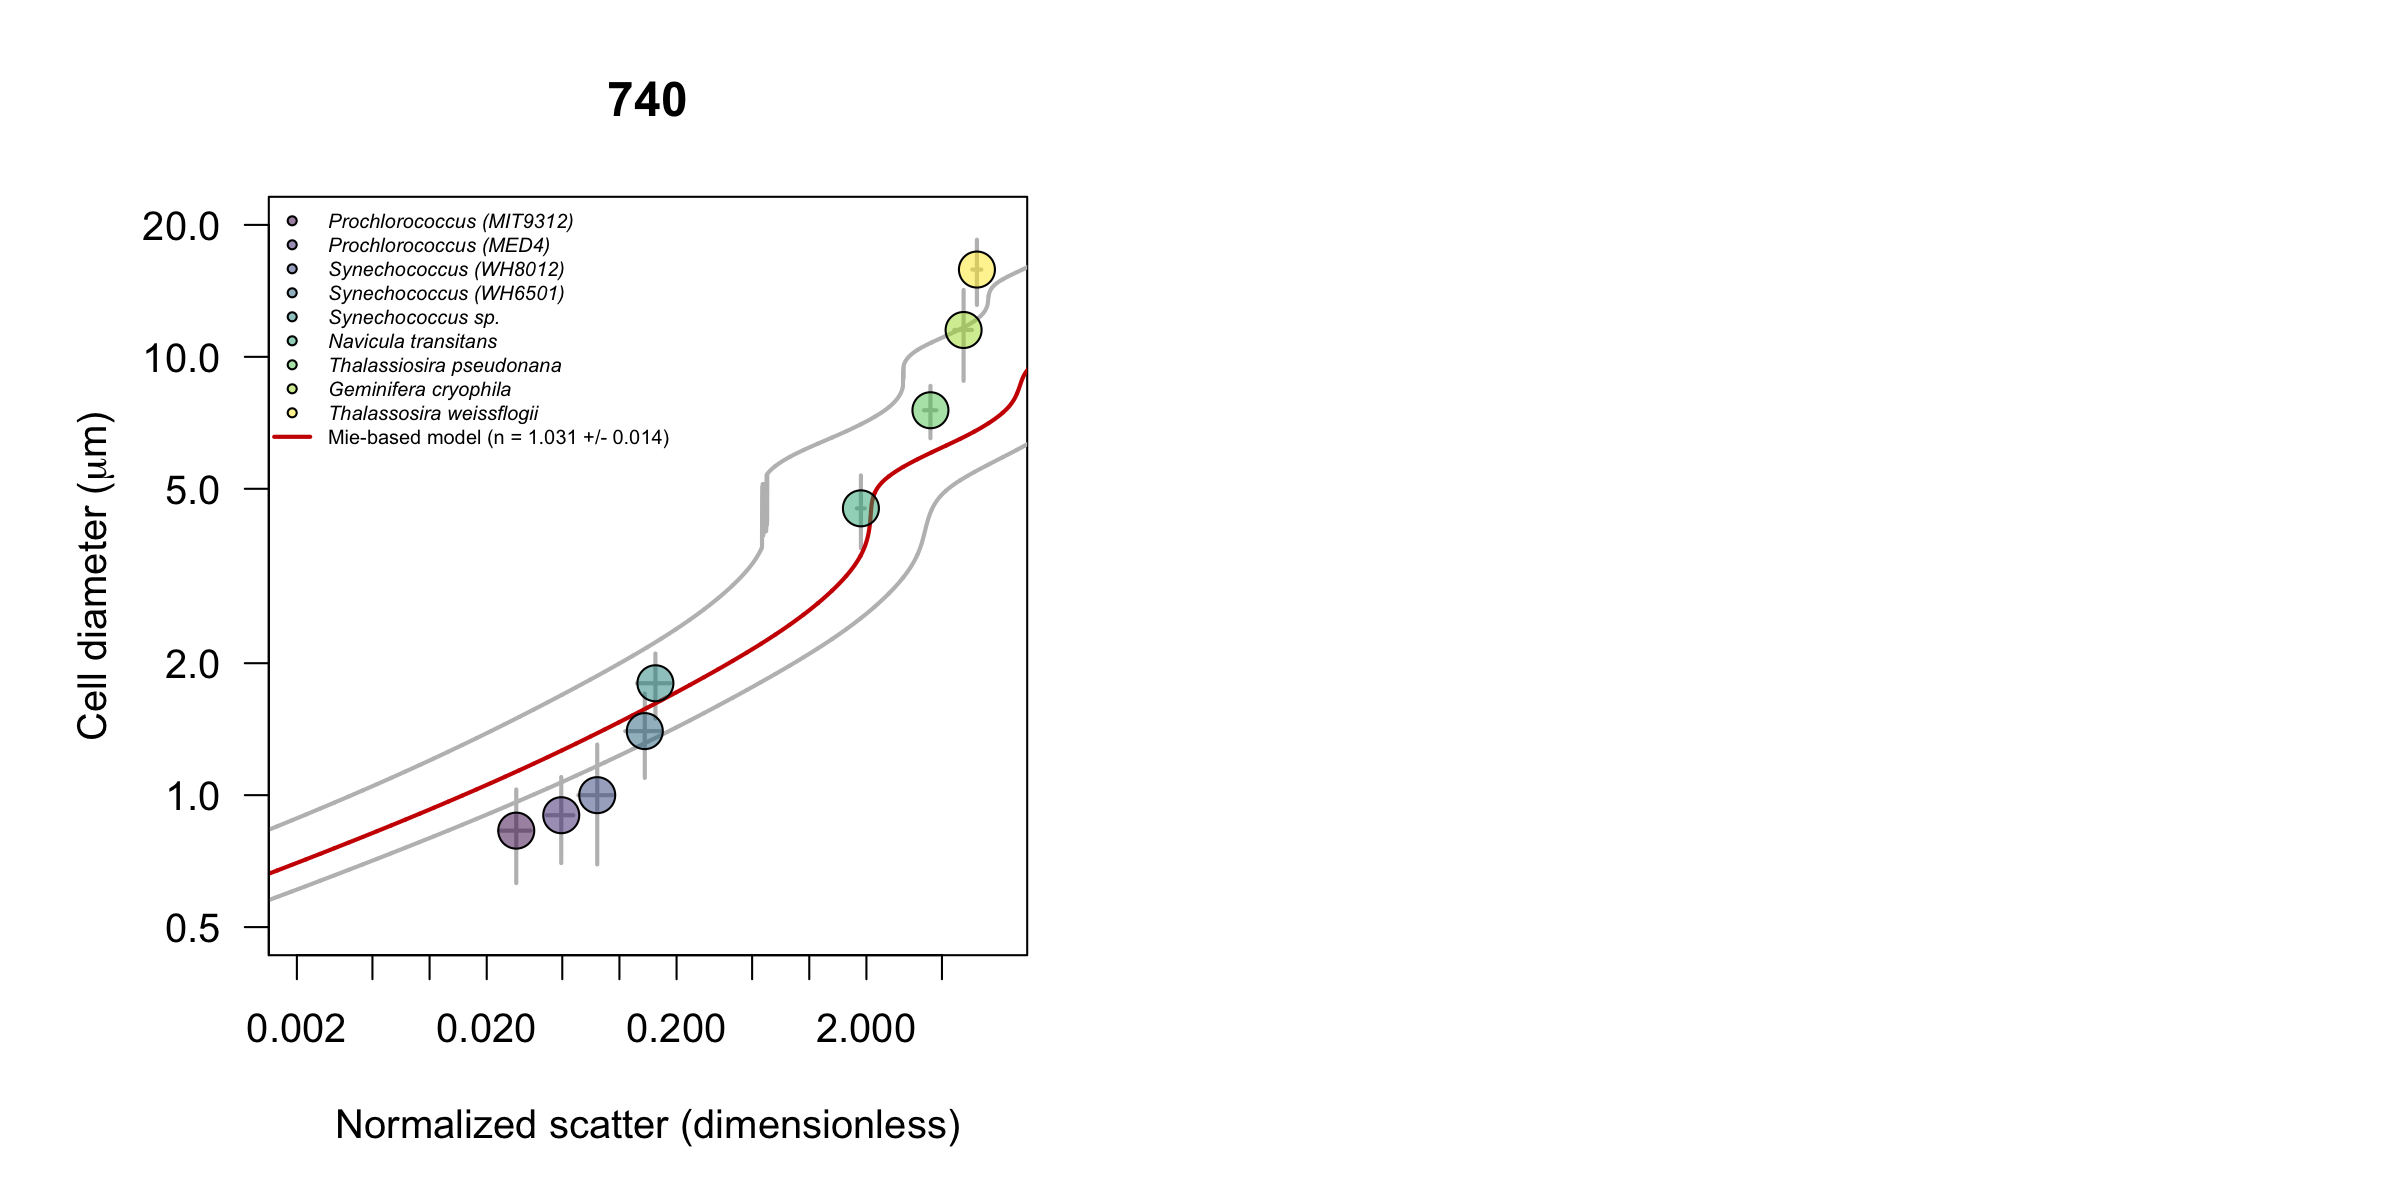
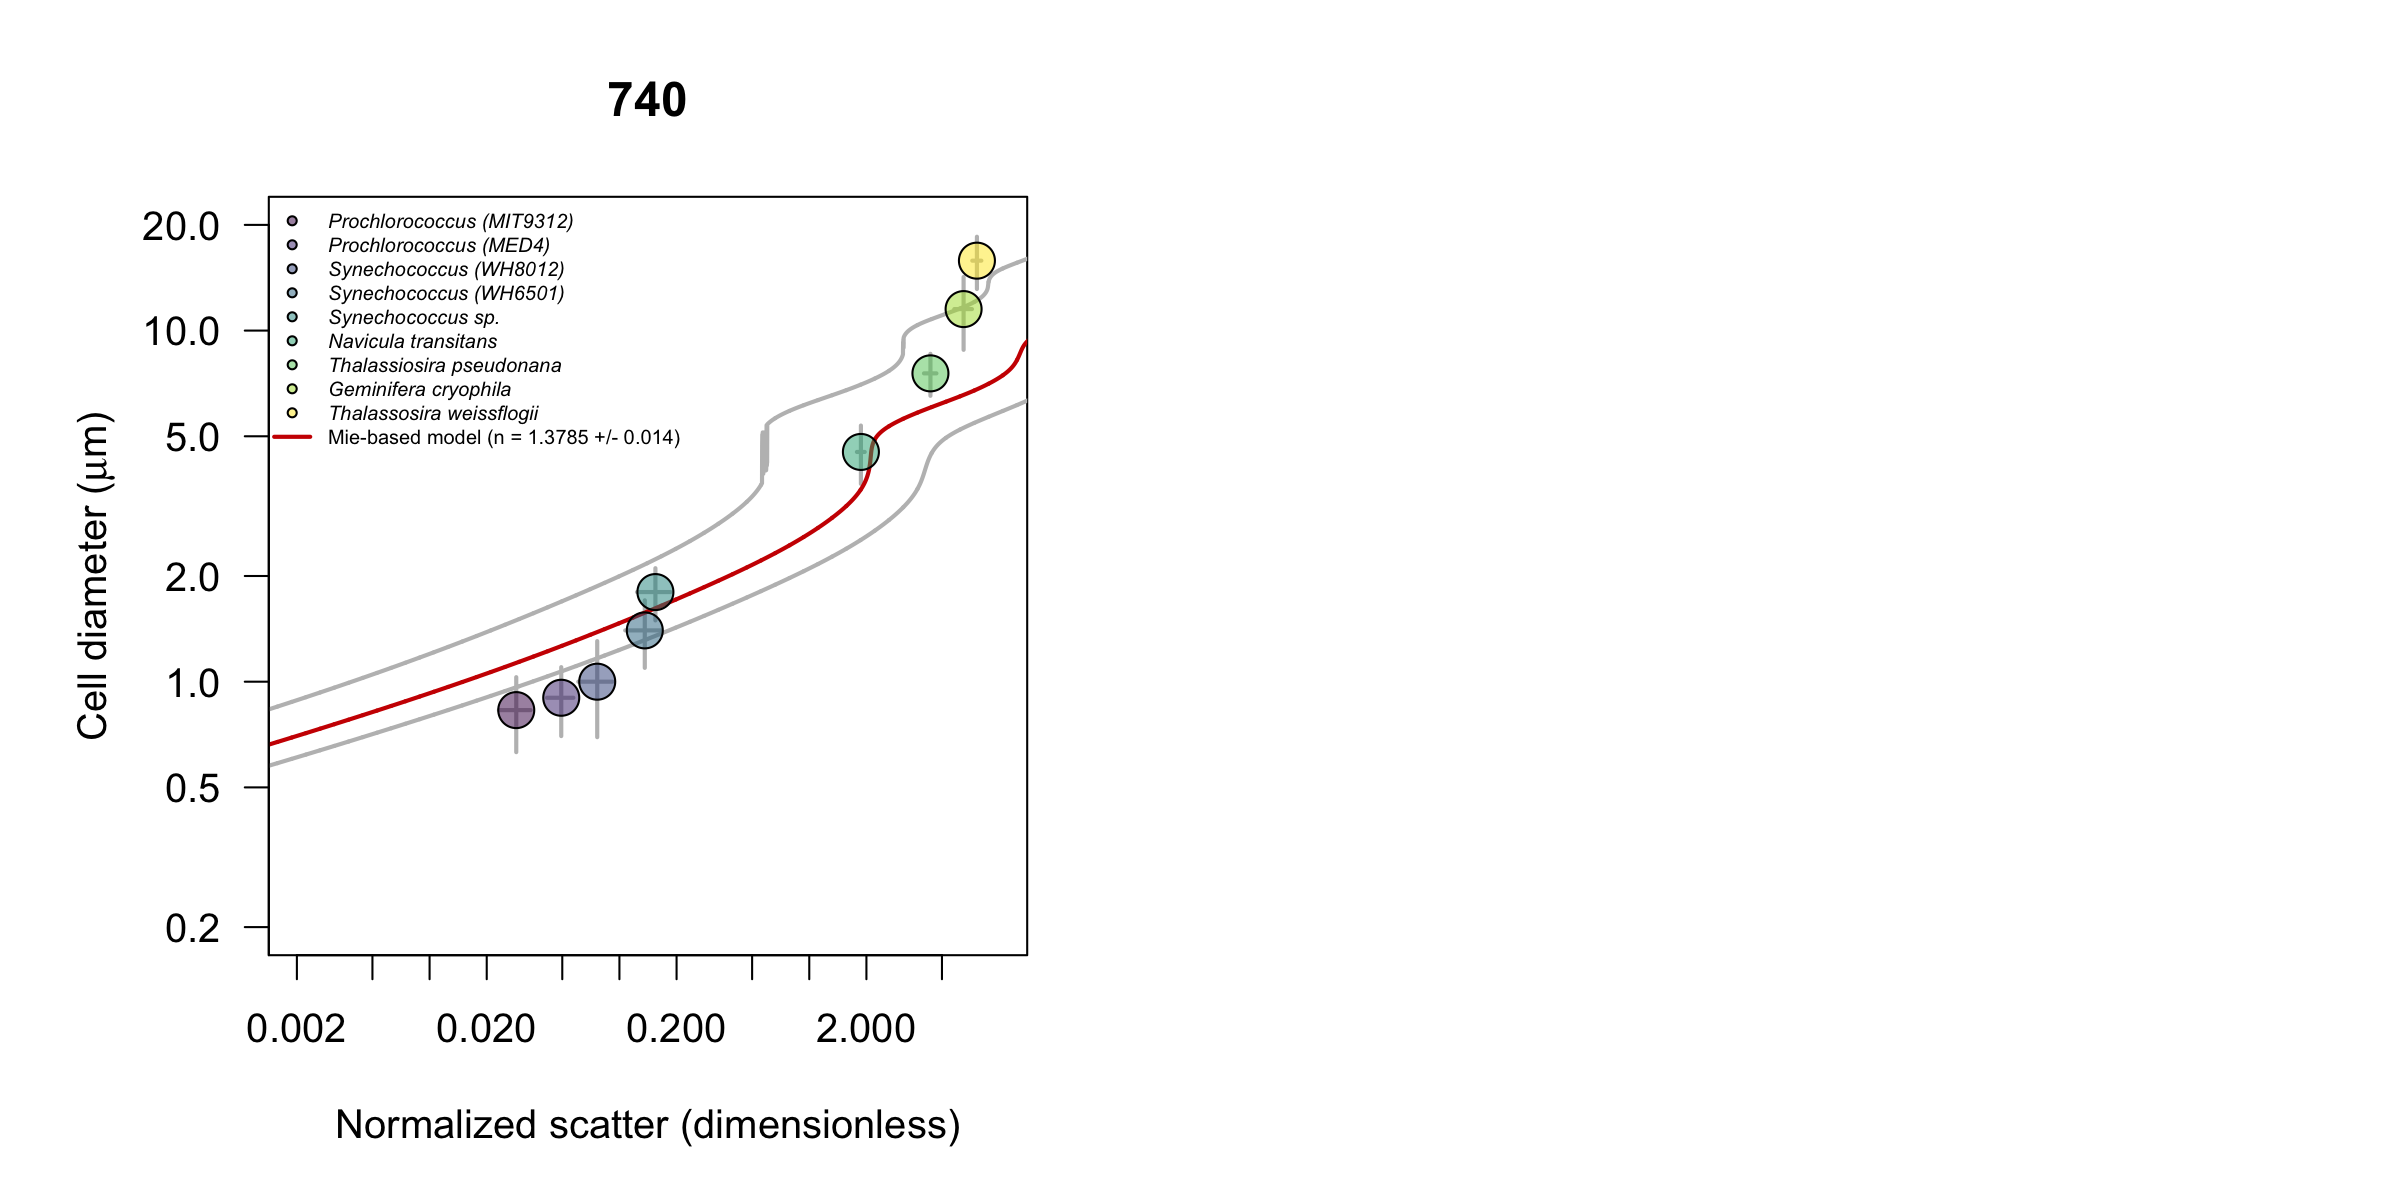
plot clean-up

diff --git a/README.md b/README.md
@@ -1,6 +1,6 @@
 # Calibration light scattering - cell diameter
 The goal of this project is to use an optimized Mie theory to infer particle cell size from forward scatter measurements. In order to use Mie theory, an optimization method was developed to minimize the difference between forward scattering measured by SeaFlow and estimated using Mie theory. The optimization step was necessary because the optical geometry of the flow cytometer is not precisely known. An optimization procedure was conducted to scale the dimensionless values of forward scatter, in which the differences between the Mie-modeled and measurement-derived forward scatter were minimized. We used SeaFlow measurements of calibration particles of known refractive index and size. These particles includes 7 sizes of polystyrene beads (0.3, 0.5, 0.75, 1, 1.83, 3.1 and 5.7 µm in diameter; n = 1.6003) (left panel).
-Using this optimization, a lookup table of theory-based solutions for particle forward scattering was created over a range of particle diameter detectable by the SeaFlow (0.3 - 10 µm) and index of refraction applicable to marine phytoplankton (n=1.031 +/- 0.014). To evaluate the applicability of these solutions, we compared Mie-predicted cell diameter to observations of 9 phytoplankton cultures using Coulter Counter (right panel).
+Using this optimization, a lookup table of theory-based solutions for particle forward scattering was created over a range of particle diameter detectable by the SeaFlow (0.3 - 10 µm) and index of refraction applicable to marine phytoplankton (n=1.3785 +/- 0.014). To evaluate the applicability of these solutions, we compared Mie-predicted cell diameter to observations of 9 phytoplankton cultures using Coulter Counter (right panel).
 
 ![alt text](Mie-scatter.png "Mie-predicted cell diameter compared to observations")
 
